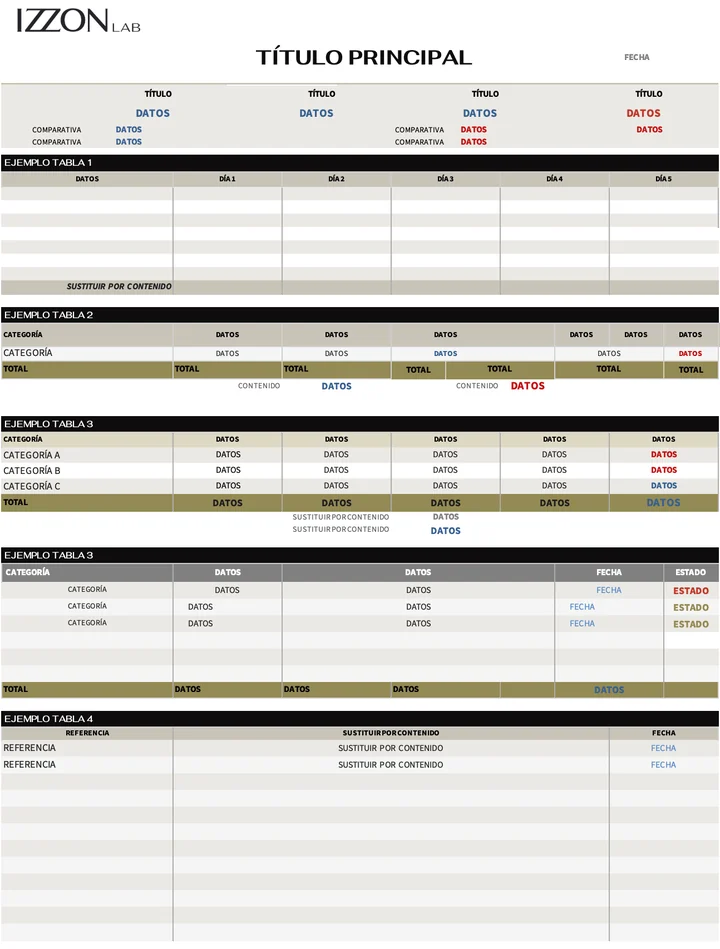
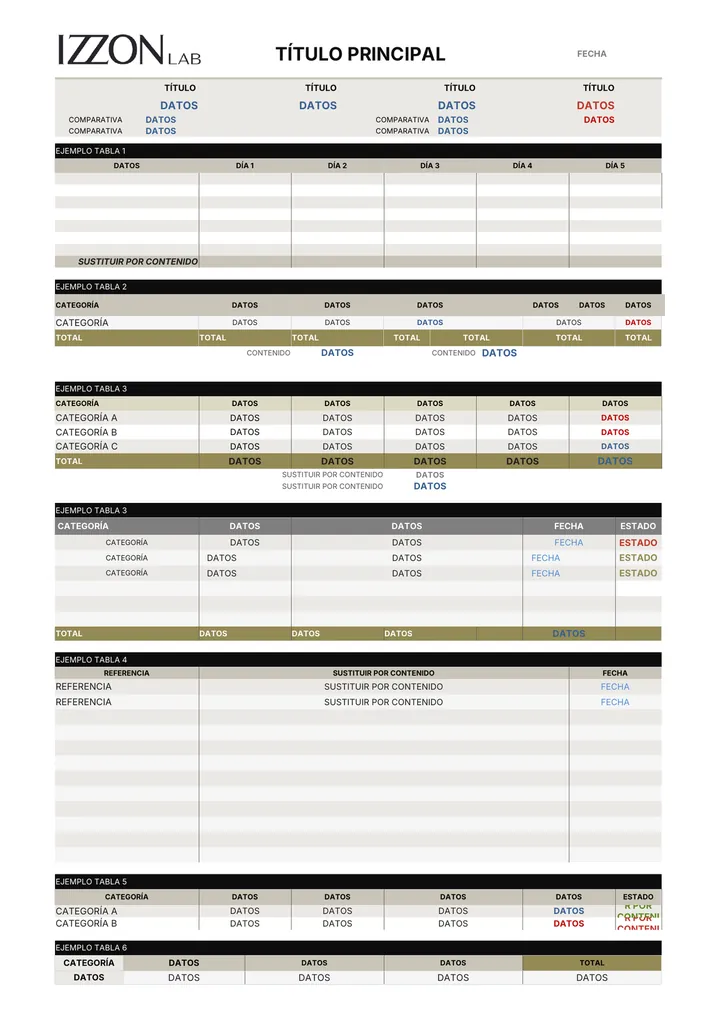
Excel templates: replace Modelo 02 with the updated workbook
New file with tables 5 and 6 added, new preview and description.

Claude-Session: https://claude.ai/code/session_01BDvjGXJirxyYZ3AZYio5Wr

diff --git a/inc/config.php b/inc/config.php
@@ -79,7 +79,7 @@ const PLANTILLAS = [
             [
                 'id' => 'excel-modelo-02', 'nombre' => 'Modelo 02', 'archivo' => 'IZZON-LAB-Excel-Modelo-02.xlsx',
                 'tipo' => 'Hoja de datos', 'formato' => 'Excel · A4 vertical',
-                'descripcion' => 'Plantilla con cabecera de indicadores comparativos y cuatro modelos de tabla: seguimiento diario, categorías con totales, estados con fechas y referencias.',
+                'descripcion' => 'Plantilla con cabecera de indicadores comparativos y seis modelos de tabla: seguimiento diario, categorías con totales, estados con fechas, referencias y resúmenes por categoría.',
             ],
         ],
     ],
